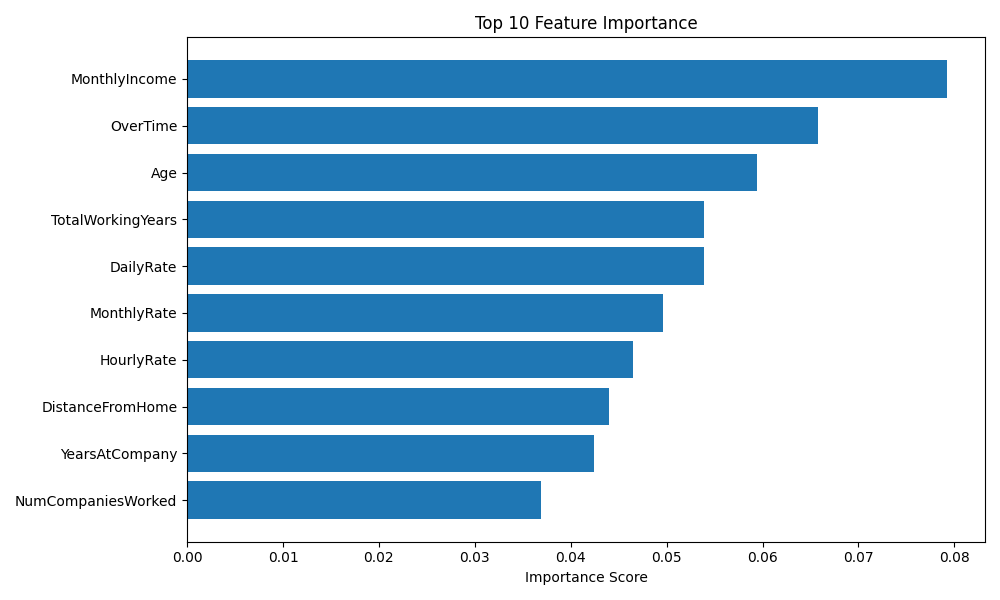
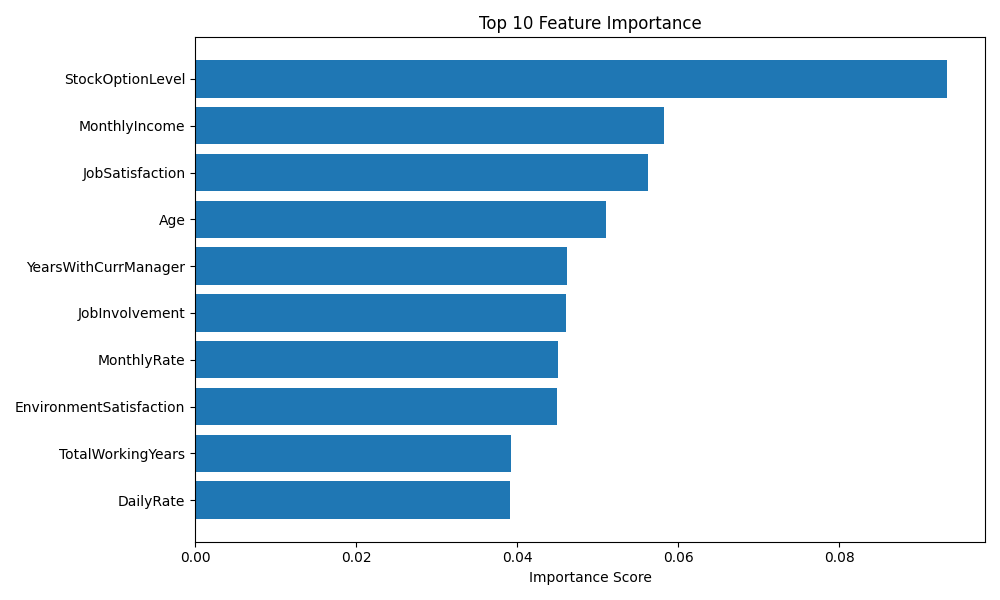
Add notebook and latest improvements

diff --git a/model.py b/model.py
@@ -1,47 +1,102 @@
 import pandas as pd
 import numpy as np
 import matplotlib.pyplot as plt
+import seaborn as sns
+
 from sklearn.model_selection import train_test_split
 from sklearn.preprocessing import LabelEncoder
 from sklearn.ensemble import RandomForestClassifier
 from sklearn.metrics import classification_report, accuracy_score
+from imblearn.over_sampling import SMOTE
 
-# Load dataset
+# -------------------------
+# 1⃣ Load Dataset
+# -------------------------
 df = pd.read_csv("WA_Fn-UseC_-HR-Employee-Attrition.csv")
 
-# Drop non-informative columns
+# Drop non-informative column
 if "EmployeeNumber" in df.columns:
     df = df.drop("EmployeeNumber", axis=1)
 
-# Encode categorical features
+# -------------------------
+# 2⃣ Encode Categorical Variables
+# -------------------------
 label_encoders = {}
-for column in df.select_dtypes(include=["object"]).columns:
+for column in df.select_dtypes(include=["object", "string"]).columns:
     le = LabelEncoder()
     df[column] = le.fit_transform(df[column])
     label_encoders[column] = le
 
-# Target variable
+# -------------------------
+# 3⃣ Define Features & Target
+# -------------------------
 X = df.drop("Attrition", axis=1)
 y = df["Attrition"]
 
-# Train-test split
+# -------------------------
+# 4⃣ Stratified Train/Test Split
+# -------------------------
 X_train, X_test, y_train, y_test = train_test_split(
-    X, y, test_size=0.2, random_state=42
+    X,
+    y,
+    test_size=0.2,
+    random_state=42,
+    stratify=y
 )
 
-# Train model
-model = RandomForestClassifier(n_estimators=200, random_state=42)
+# -------------------------
+# 5⃣ Apply SMOTE (only on training data)
+# -------------------------
+sm = SMOTE(random_state=42)
+X_train, y_train = sm.fit_resample(X_train, y_train)
+
+# -------------------------
+# 6⃣ Train Model
+# -------------------------
+model = RandomForestClassifier(
+    n_estimators=200,
+    random_state=42
+)
+
 model.fit(X_train, y_train)
 
-# Predictions
-y_pred = model.predict(X_test)
+# -------------------------
+# 7⃣ Predict Probabilities
+# -------------------------
+y_probs = model.predict_proba(X_test)[:, 1]
 
-# Evaluation
-print("Accuracy:", accuracy_score(y_test, y_pred))
+# -------------------------
+# 8⃣ Find Best Threshold (Max F1 for Class 1)
+# -------------------------
+best_threshold = 0.5
+best_f1 = 0
+
+for t in np.arange(0.3, 0.8, 0.05):
+    temp_pred = (y_probs > t).astype(int)
+    report = classification_report(y_test, temp_pred, output_dict=True)
+    f1_1 = report["1"]["f1-score"]
+
+    if f1_1 > best_f1:
+        best_f1 = f1_1
+        best_threshold = t
+
+print("Best Threshold:", best_threshold)
+print("Best F1 (Class 1):", best_f1)
+
+# Final prediction
+y_pred = (y_probs > best_threshold).astype(int)
+
+
+# -------------------------
+# 9⃣ Evaluation
+# -------------------------
+print("\nAccuracy:", accuracy_score(y_test, y_pred))
 print("\nClassification Report:\n")
 print(classification_report(y_test, y_pred))
 
-# Feature Importance
+# -------------------------
+# 🔟 Feature Importance
+# -------------------------
 importances = model.feature_importances_
 features = X.columns
 
@@ -54,11 +109,24 @@ print("\nTop 10 Important Features:\n")
 print(importance_df.head(10))
 
 # Plot Feature Importance
-plt.figure(figsize=(10,6))
+plt.figure(figsize=(10, 6))
 plt.barh(importance_df["Feature"][:10], importance_df["Importance"][:10])
 plt.gca().invert_yaxis()
 plt.title("Top 10 Feature Importance")
 plt.xlabel("Importance Score")
 plt.tight_layout()
 plt.savefig("feature_importance.png")
-plt.show()
+plt.close()
+
+# -------------------------
+# Confusion Matrix (Bonus)
+# -------------------------
+from sklearn.metrics import confusion_matrix
+
+cm = confusion_matrix(y_test, y_pred)
+sns.heatmap(cm, annot=True, fmt="d", cmap="Blues")
+plt.title("Confusion Matrix")
+plt.xlabel("Predicted")
+plt.ylabel("Actual")
+plt.savefig("confusion_matrix.png")
+plt.close()
